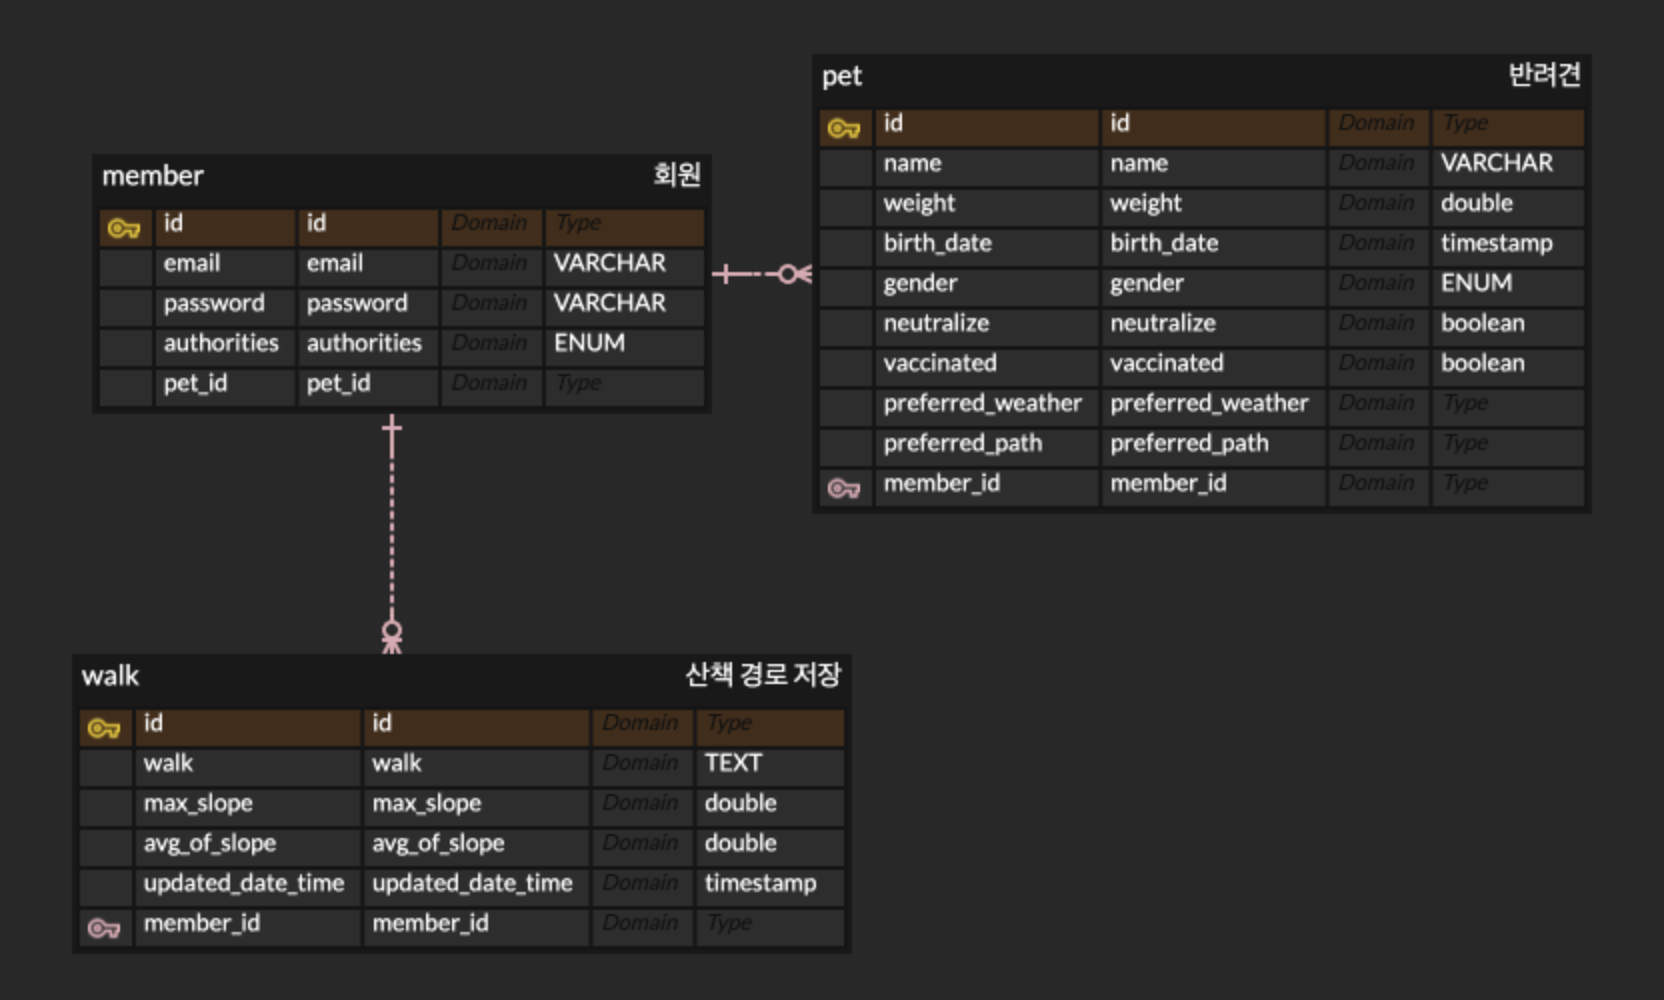
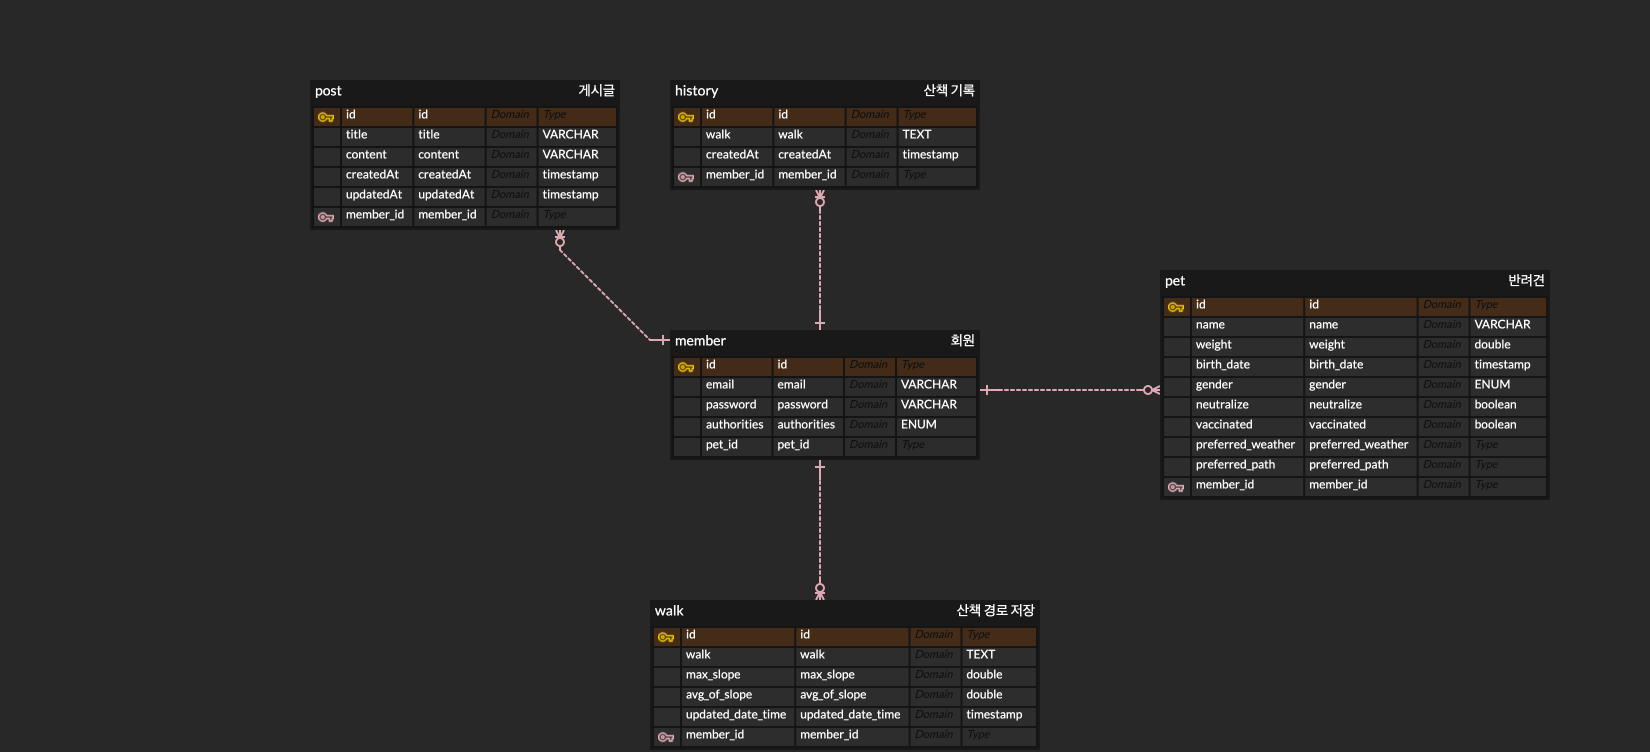
chore: add new features' description and update erd

diff --git a/README.md b/README.md
@@ -55,16 +55,16 @@ Swagger를 통해 API 명세서를 자동화하고자 했습니다.
   <img src="https://img.shields.io/badge/springboot-6DB33F?style=for-the-badge&logo=springboot&logoColor=white">
   <img src="https://img.shields.io/badge/gradle-02303A?style=for-the-badge&logo=gradle&logoColor=white">
   <br>
-  
+
   <img src="https://img.shields.io/badge/H2 database-09476B?style=for-the-badge&logo=h2database&logoColor=white">
   <img src="https://img.shields.io/badge/mysql-4479A1?style=for-the-badge&logo=mysql&logoColor=white">
   <br>
-  
+
   <img src="https://img.shields.io/badge/git-F05032?style=for-the-badge&logo=git&logoColor=white">
   <img src="https://img.shields.io/badge/github-181717?style=for-the-badge&logo=github&logoColor=white">
   <img src="https://img.shields.io/badge/amazonaws-232F3E?style=for-the-badge&logo=amazonaws&logoColor=white">
   <img src="https://img.shields.io/badge/nginx-009639?style=for-the-badge&logo=nginx&logoColor=white">
-  
+
 </div>
 
 ## ⚙ 환경변수
@@ -101,6 +101,18 @@ Swagger를 통해 API 명세서를 자동화하고자 했습니다.
 
 - **날씨 정보 조회**: 사용자는 날씨 정보를 조회할 수 있습니다. 이 때, 등록되어 있는 사용자의 반려견에 맞추어 산책 지수가 표기됩니다.
 
+#### 산책 기록
+
+- **산책 기록 저장**: 사용자가 산책을 마쳤을 때 산책 기록을 저장할 수 있습니다.
+- **산책 기록 조회**: 사용자의 산책 기록을 리스트로 불러올 수 있습니다. 여기서 특정 산책 기록을 단건 조회할 수도 있습니다.
+
+#### 게시글
+
+- **게시글 저장**: 사용자는 소통을 위한 게시글을 업로드할 수 있습니다.
+- **게시글 수정**: 사용자는 게시글을 수정할 수 있습니다.
+- **게시글 삭제**: 사용자는 게시글을 삭제할 수 있습니다.
+- **게시글 조회**: 사용자는 게시글을 단건조회할 수 있습니다. 또한 다른 회원의 게시글 리스트를 조회할 수 있고, 자신의 게시글 리스트를 조회할 수도 있습니다.
+
 더 자세한 내용은 기능 명세서 노션 페이지에서 확인 가능합니다.
 
 [기능 명세서 페이지 바로가기](https://teamsparta.notion.site/24a2dc3ef51480f49307e08214769536?source=copy_link)
@@ -108,6 +120,5 @@ Swagger를 통해 API 명세서를 자동화하고자 했습니다.
 ## 📈 앞으로의 로드맵
 
 1. 사용자와 반려견의 일대다 매핑 도입
-2. 지난 산책 기록 조회 기능 도입
-3. 주 산책 경로 재구성/재등록 기능 도입
-4. 반려견의 비만 여부 확인 및 이에 따른 가중치 테이블 추가
+2. 주 산책 경로 재구성/재등록 기능 도입
+3. 반려견의 비만 여부 확인 및 이에 따른 가중치 테이블 추가
